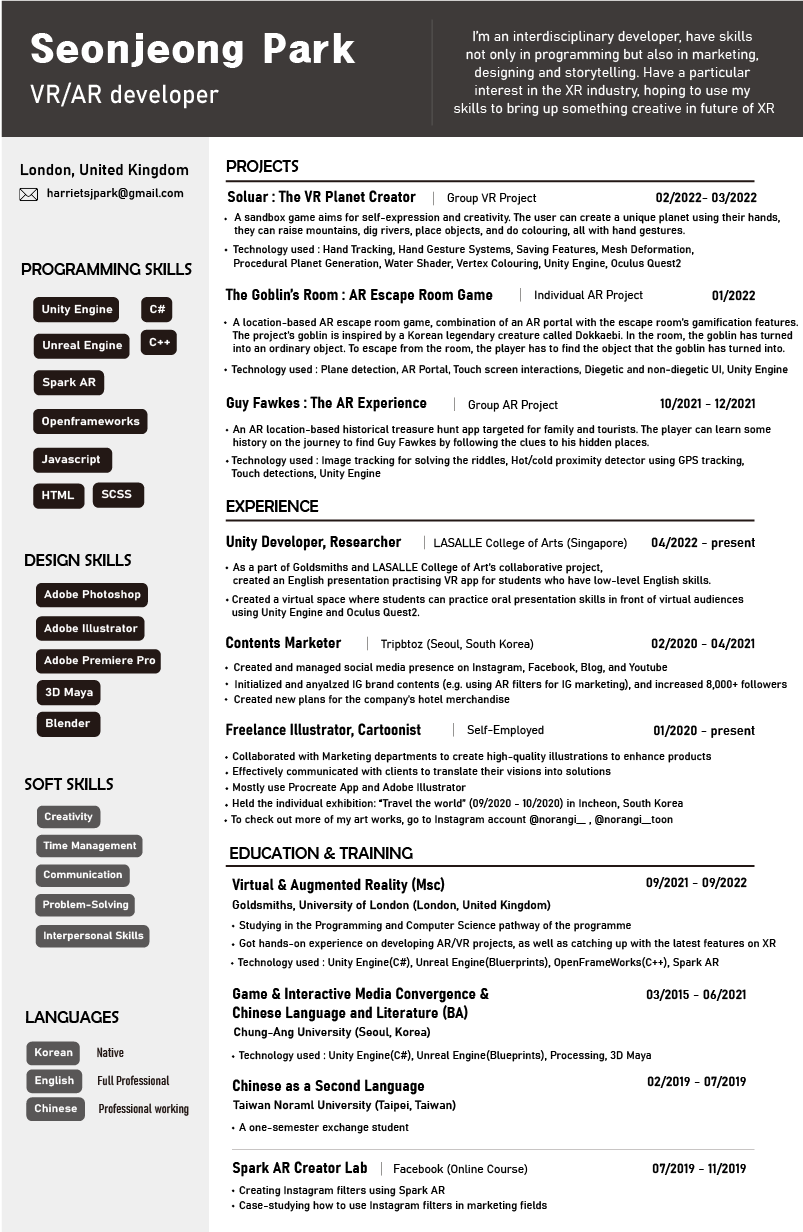
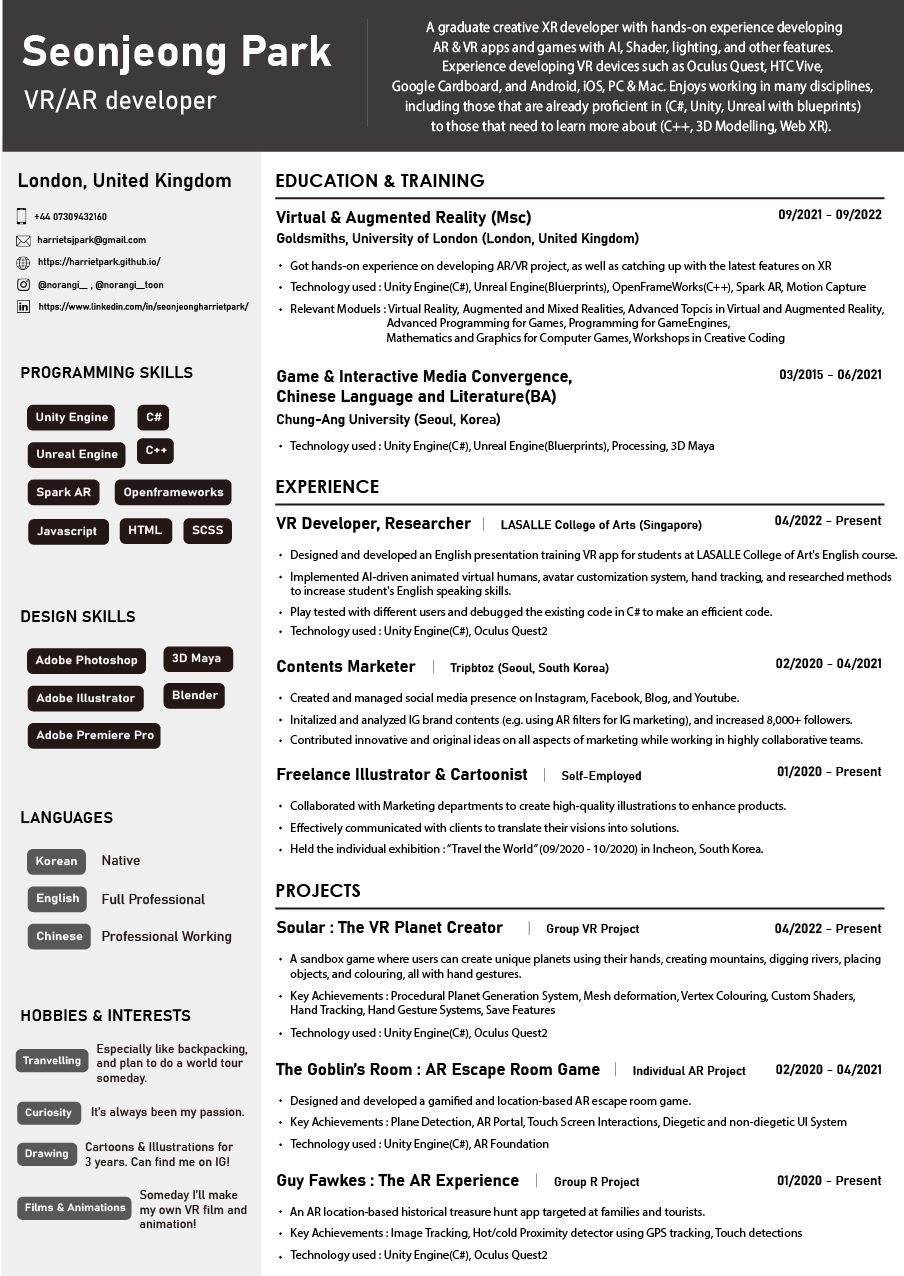
changed CV

Changed region(s): [[0.0, 0.0, 1.0, 0.987]]

diff --git a/index.html b/index.html
@@ -72,6 +72,10 @@
                     <br>
                     <p>
                         Since I met Harry Potter in third grade elementary school, I was into immersive storytelling. I write stories, edit videos, draw illustrations and cartoons, and now I'm into AR&VR. This September I'll be graduating from MSc Vritual and Augmented Reality at Goldsmiths University of London. Creativity has always been my passion :D
+                        <h>
+        
+                  </h>
+                        
                     </p>
                 </div>
                 
@@ -113,7 +117,7 @@
             
             <section id="cv">
                 <ul>
-                    <li><img src="img/cv2.png" alt=""></li>
+                    <li><img src="img/cv.png" class = "cvImages" alt=""></li>
                 </ul>
           
            

diff --git a/css/style.css b/css/style.css
@@ -38,7 +38,8 @@ a, a:hover{
     //background:url(..//img/photo-inner.png) no-repeat;
     width: 250px;
     height: 214px;
-    margin-left: 10px;
+    margin-left: 0px;
+
 }
 
 .about h1{
@@ -65,6 +66,7 @@ a, a:hover{
     font-weight: 400;
     line-height: 22px;
 }
+
 
 header{
     position: relative;
@@ -285,6 +287,18 @@ a.tab-profile.active i{
 
 .tmenu{
     float: left !important;
+}
+
+#cv{
+    image-resolution: from-image;
+    image-resolution: 600dpi;
+    image-resolution: front-image 300dpi; 
+    image-resolution: 300dpi snap;
+}
+.cvImages{
+    width : 840px;
+    height: 1300px;
+    margin-left: -20px;
 }
 
 #portfolio{
